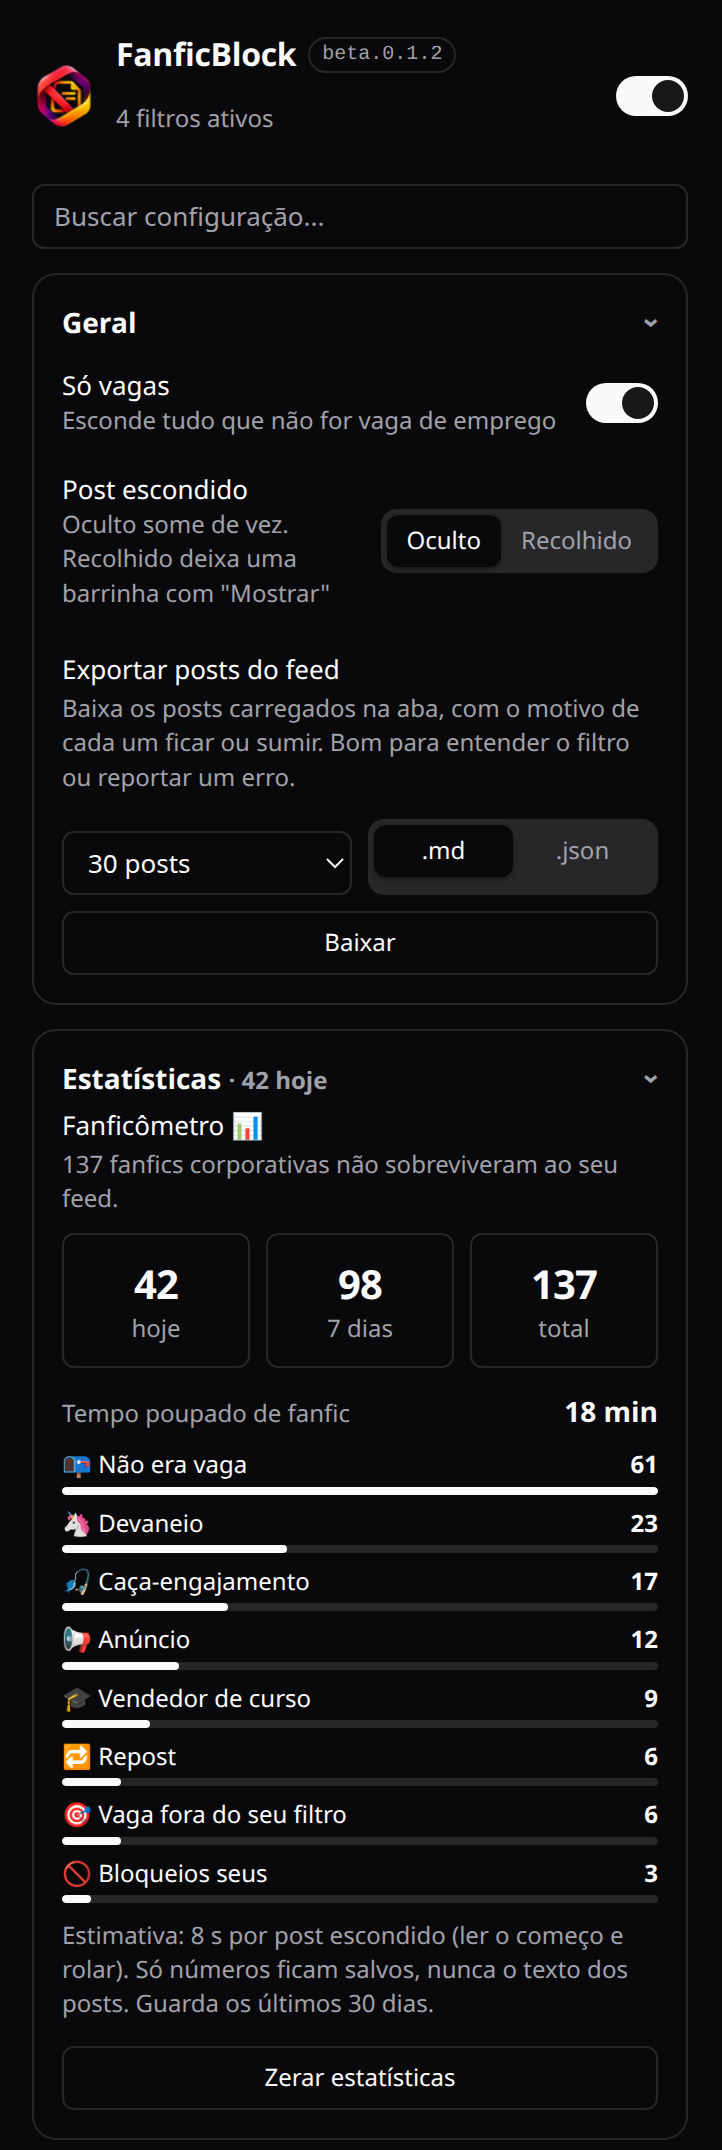
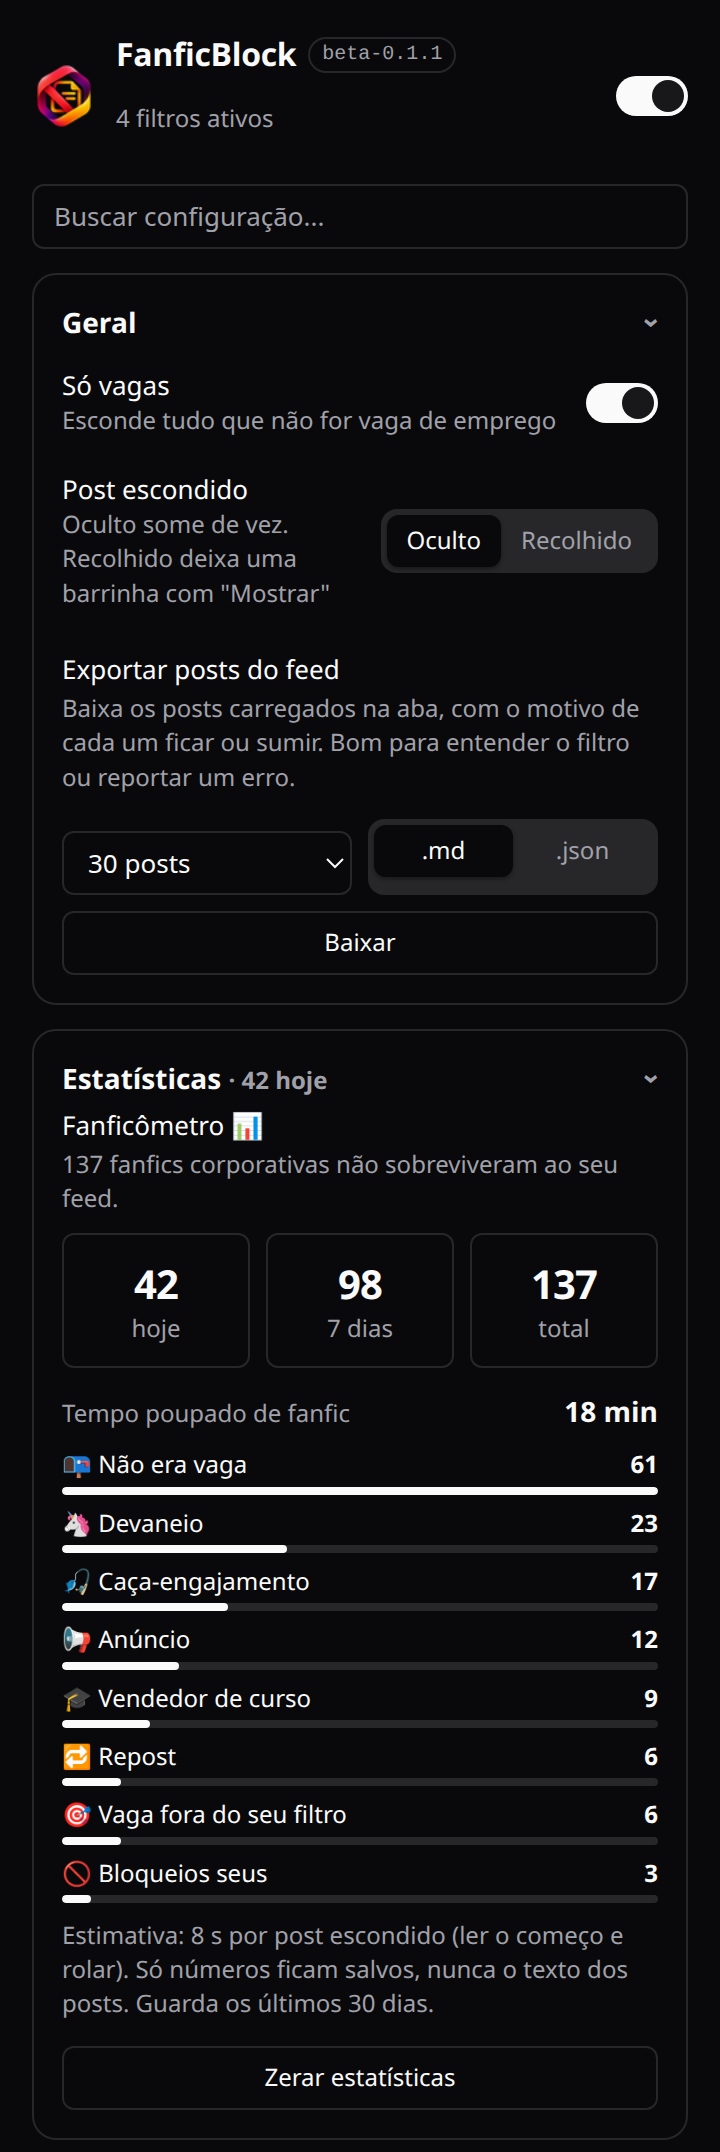
Versão beta-0.1.1

diff --git a/test/popup-preview.html b/test/popup-preview.html
@@ -35,7 +35,7 @@
           set: (data, cb) => { Object.assign(localStore, data); cb && cb(); }
         }
       },
-      runtime: { getManifest: () => ({ version: "0.1.2", version_name: "beta.0.1.2" }) },
+      runtime: { getManifest: () => ({ version: "0.1.1", version_name: "beta-0.1.1" }) },
       tabs: { query: async () => [{ id: 1 }], sendMessage: async () => { throw new Error("prévia"); } }
     };
   <\/script>`;

diff --git a/popup.js b/popup.js
@@ -3,7 +3,7 @@ const $$ = (sel) => [...document.querySelectorAll(sel)];
 
 let settings = { ...JF_DEFAULTS };
 
-// Versão do manifest ("version_name" quando houver, ex.: beta.0.1.2).
+// Versão do manifest ("version_name" quando houver, ex.: beta-0.1.1).
 const manifest = chrome.runtime?.getManifest?.();
 $("#version").textContent = manifest ? manifest.version_name || `v${manifest.version}` : "";
 

diff --git a/README.md b/README.md
@@ -9,7 +9,7 @@ Uma extensão do Chrome que tira do feed do LinkedIn o coach quântico, o
 "fui demitido e agradeci", o "comenta EU" e o textão de ego, e deixa só as
 vagas que fazem sentido pra você.
 
-![Versão](https://img.shields.io/badge/vers%C3%A3o-beta.0.1.2-a1a1aa?style=flat-square)
+![Versão](https://img.shields.io/badge/vers%C3%A3o-beta--0.1.1-a1a1aa?style=flat-square)
 ![Manifest V3](https://img.shields.io/badge/Chrome-Manifest%20V3-4285F4?style=flat-square&logo=googlechrome&logoColor=white)
 ![Permissões](https://img.shields.io/badge/permiss%C3%B5es-s%C3%B3%20storage-22c55e?style=flat-square)
 ![Sem dependências](https://img.shields.io/badge/depend%C3%AAncias-zero-22c55e?style=flat-square)

diff --git a/store/LISTING.md b/store/LISTING.md
@@ -8,7 +8,7 @@ Textos e respostas prontos para copiar e colar na **Chrome Web Store** e no
 
 | Campo | Arquivo | Tamanho |
 | --- | --- | --- |
-| Pacote | `dist/fanficblock-0.1.2.zip` | — |
+| Pacote | `dist/fanficblock-0.1.1.zip` | — |
 | Ícone da loja | `icons/icon-128.png` | 128×128 |
 | Capturas de tela | `store/screenshot-1.png` a `store/screenshot-4.png` | 1280×800 |
 | Bloco promocional pequeno | `store/promo-small.png` | 440×280 |

diff --git a/.github/ISSUE_TEMPLATE/filtro-errou.md b/.github/ISSUE_TEMPLATE/filtro-errou.md
@@ -24,4 +24,4 @@ labels: filtro
 <!-- Ex.: Só vagas, Só tecnologia, localização SP -->
 
 **Versão**
-<!-- Aparece ao lado do nome, no topo do painel (ex.: beta.0.1.2) -->
+<!-- Aparece ao lado do nome, no topo do painel (ex.: beta-0.1.1) -->
